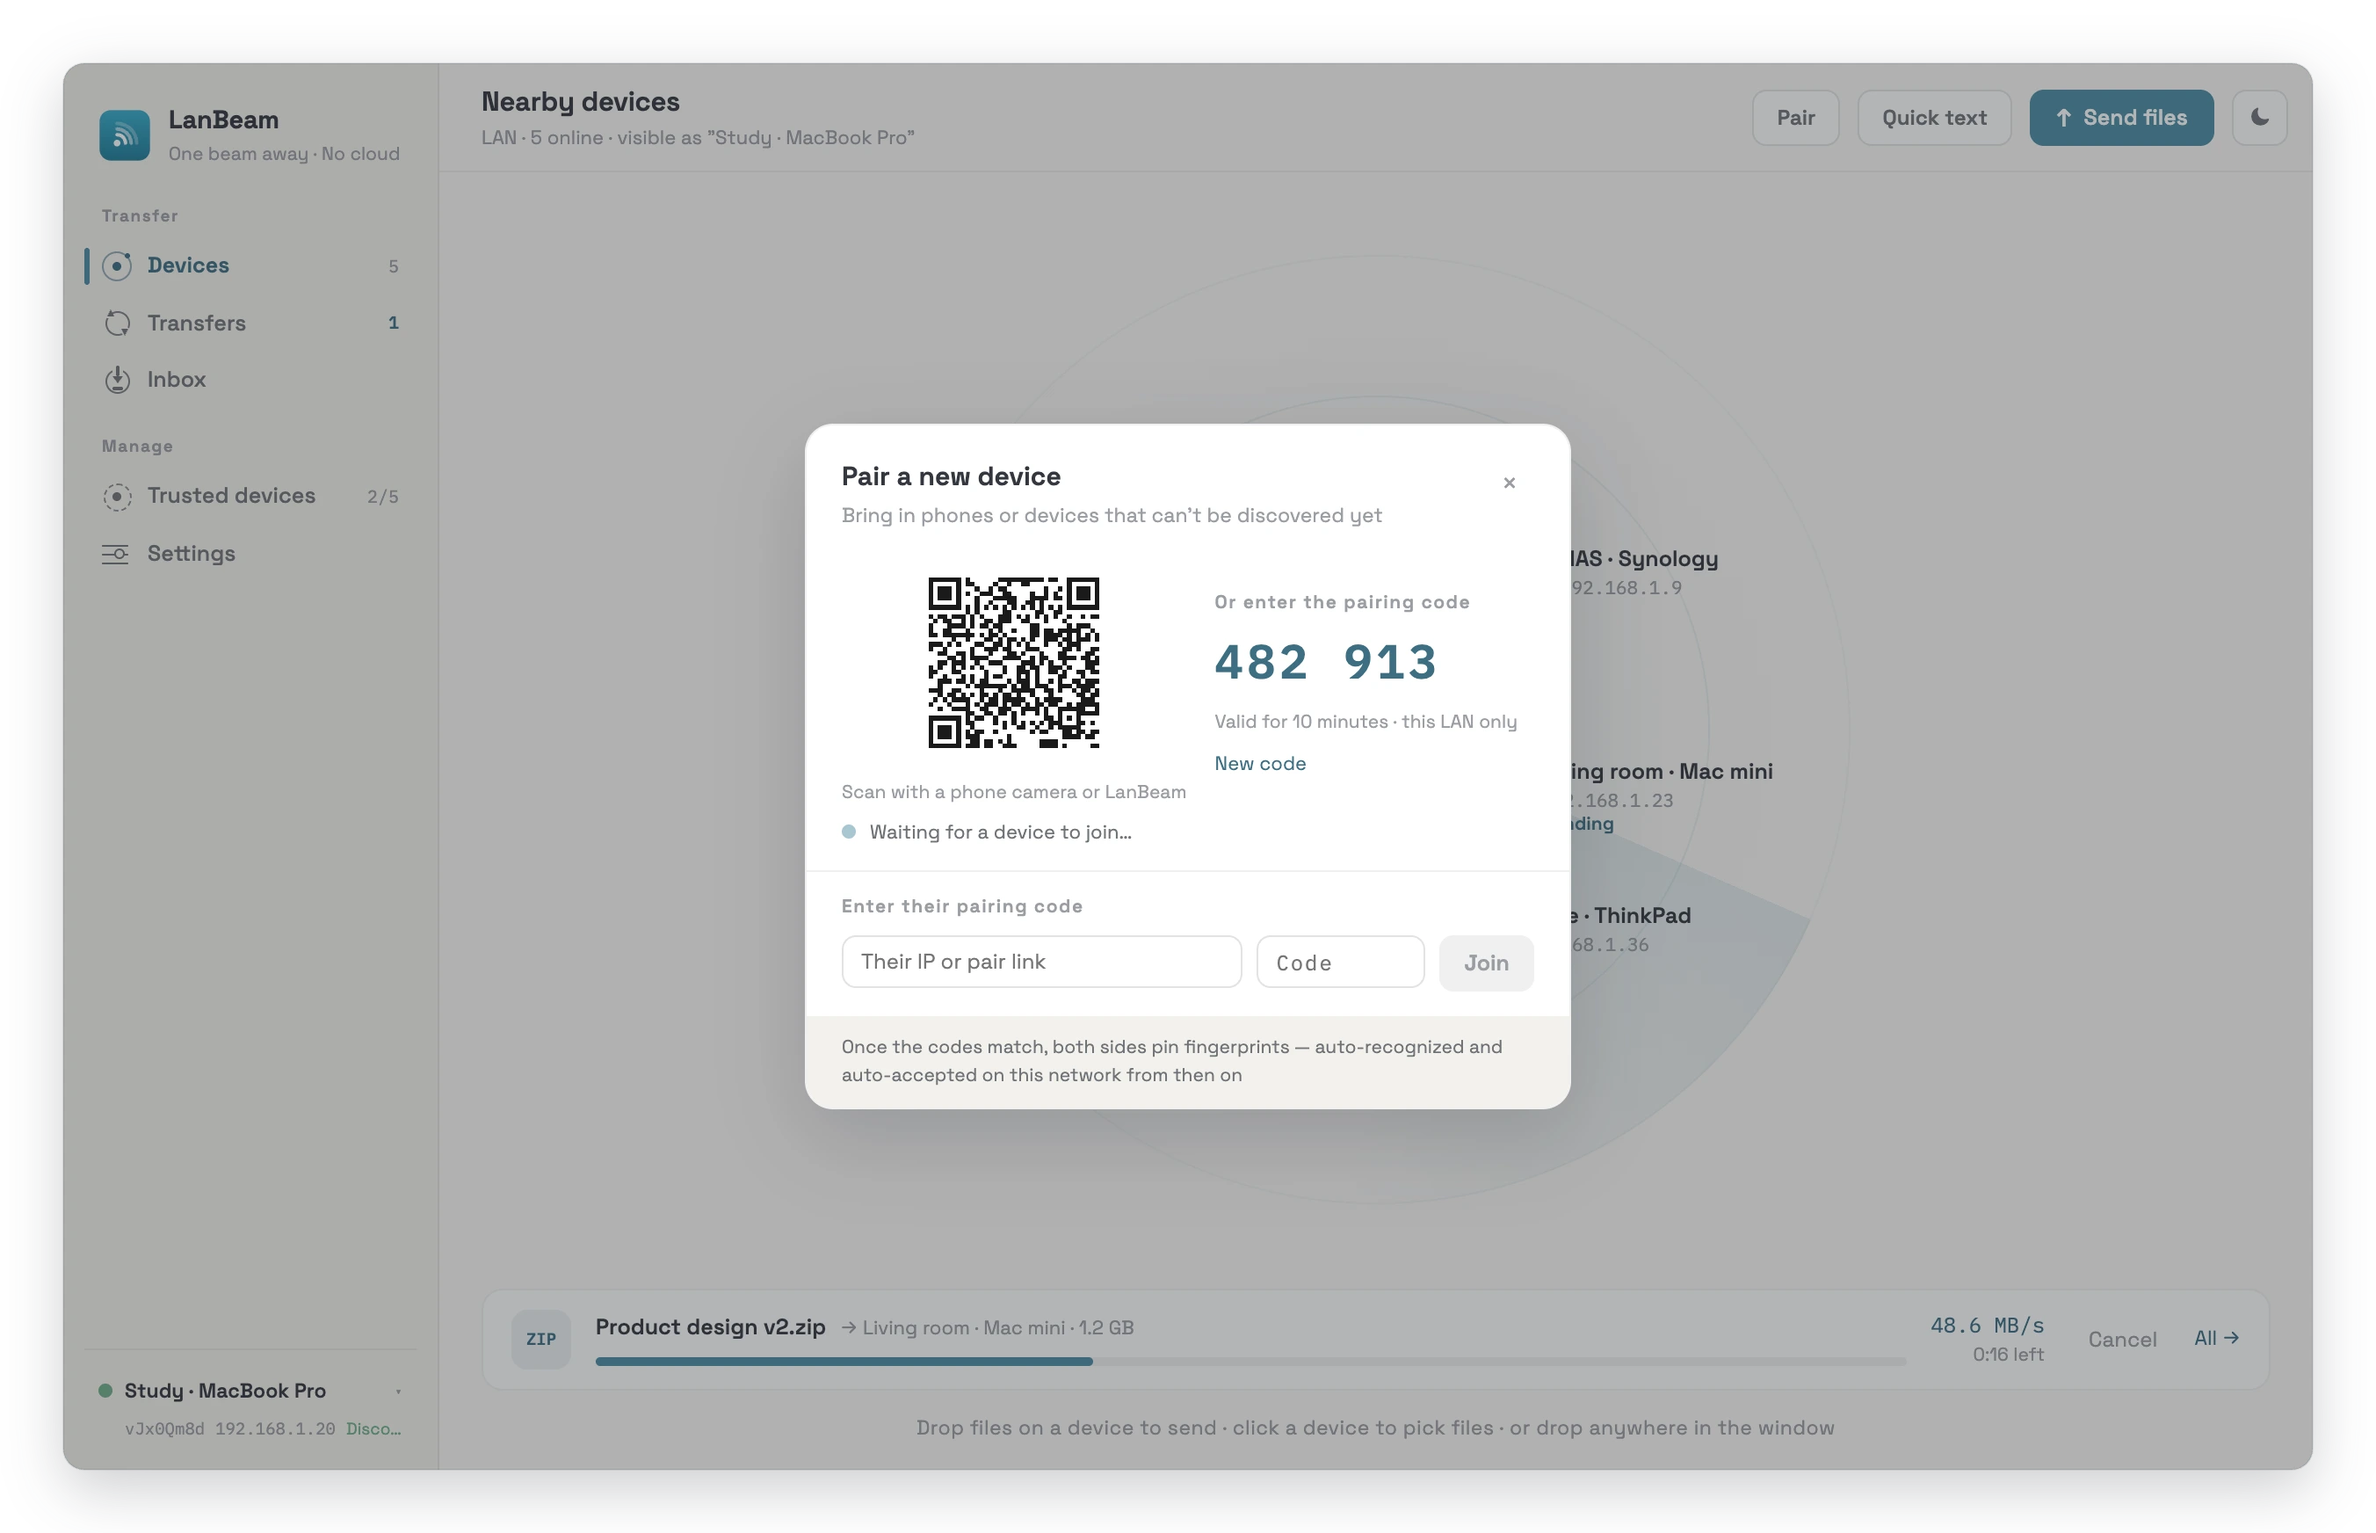
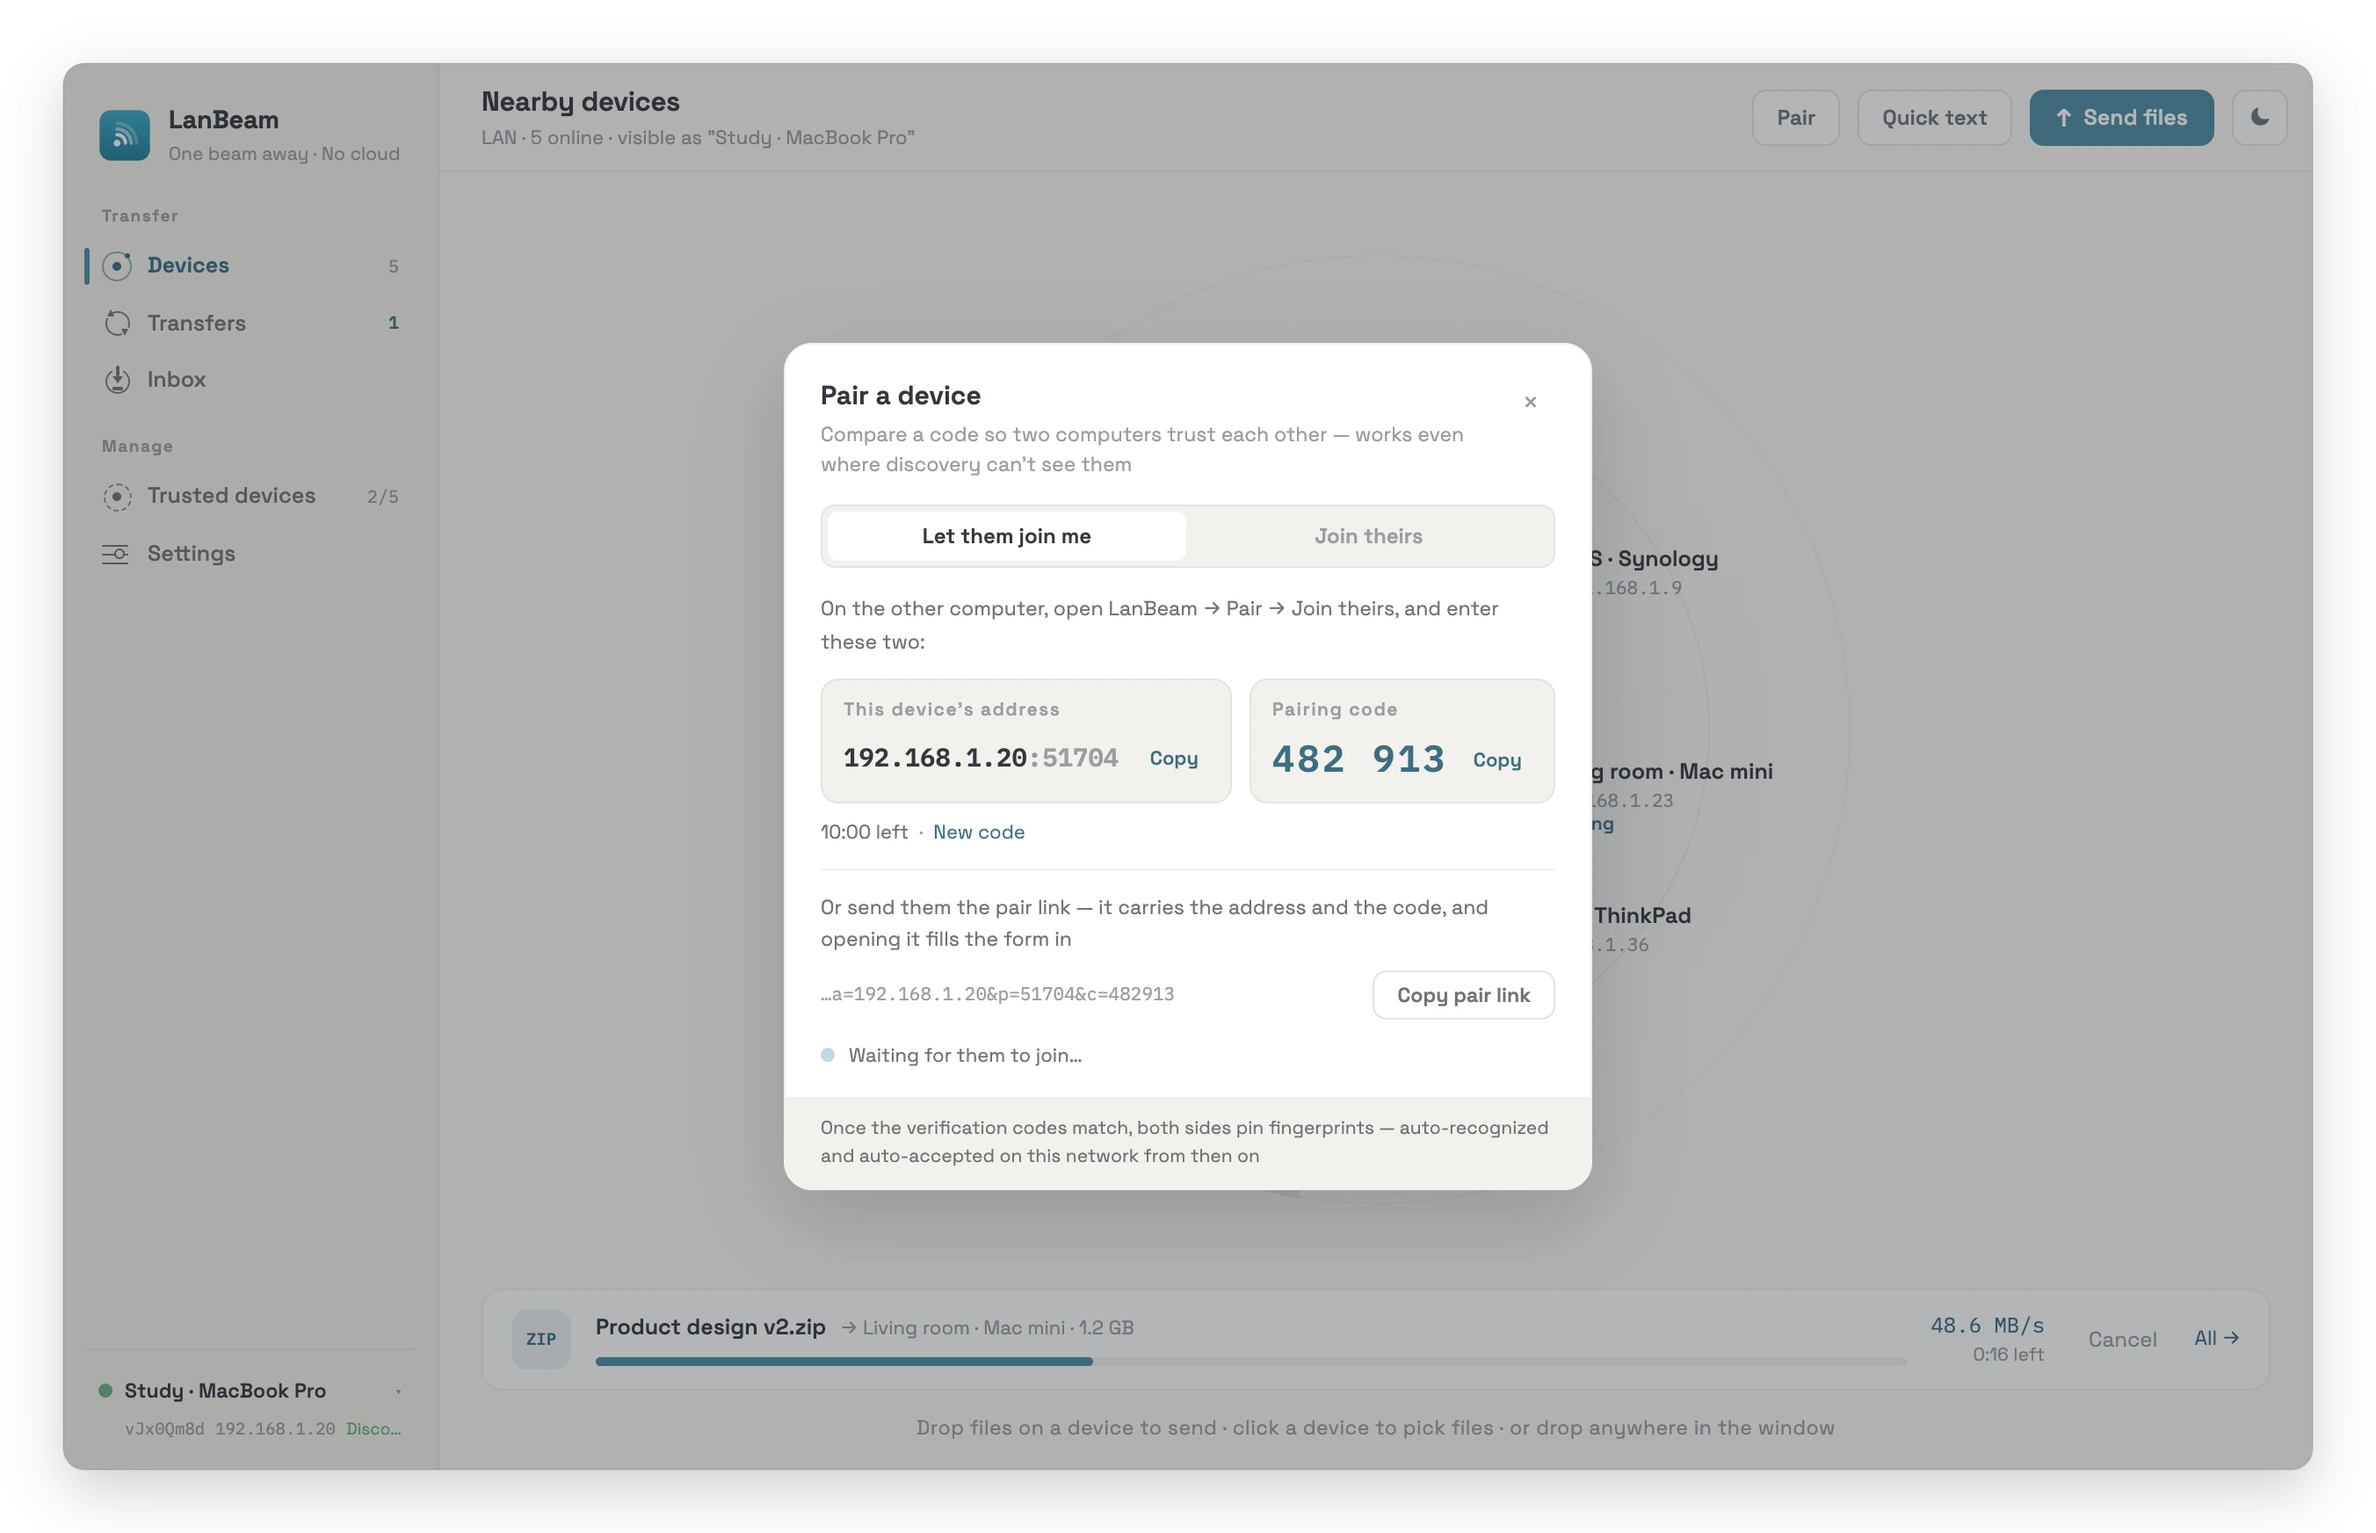
docs: pairing is "address + code"; refresh the pair screenshots
README (en/zh): the quick-start step, the screenshot caption, the pairing
bullet (link pinning, two-way reachability) and the deep-link table (pair and
connect now open the join view) describe the new form. Screenshots regenerated
with `pnpm screenshots --only pair`.

Changed region(s): [[0.3107, 0.2167, 0.6834, 0.805]]

diff --git a/README.zh-CN.md b/README.zh-CN.md
@@ -72,7 +72,7 @@ gh attestation verify LanBeam_0.1.0_x64-setup.exe --repo Johnserf-Seed/lanbeam
 2. **发送。** 把文件拖到雷达上的某台设备(或拖进窗口任意位置),也可以点一下设备再选文件。「快传文本」则用来发一段文字或链接,还可以直接放进对方的剪贴板。
 3. **接收。** 接收方会看到谁要发什么,旁边还有一串校验码;和发送方屏幕上的一致,就点接收。勾选「以后自动接收此设备」后,这台设备再发来的文件会直接收下 —— 它已进入你的信任圈。
 4. **对方没装 LanBeam?** 用「浏览器接收」:LanBeam 给出一个链接和二维码,手机扫码打开,文件直接从你的电脑下载过去。
-5. **设备没出现?**(跨子网,或发现被路由器拦了)—— 用「配对」(6 位配对码或二维码),或输入对方地址「IP 直连」。
+5. **设备没出现?**(跨子网,或发现被路由器拦了)—— 用「配对」:一台显示本机地址和 6 位配对码,另一台把两项填进去(或直接打开带着它们的配对链接)。也可以只按地址添加设备,不配对。
 
 收到的文件默认存到 `下载/LanBeam`,还可以按设备或按日期自动归档(都在设置里)。
 
@@ -84,7 +84,7 @@ gh attestation verify LanBeam_0.1.0_x64-setup.exe --repo Johnserf-Seed/lanbeam
     <td width="50%"><img src="docs/screenshots/zh/share.webp" alt="用浏览器接收:一次性的局域网链接和二维码"><br><b>浏览器接收</b> —— 一次性局域网链接 + 二维码,给没装 App 的设备</td>
   </tr>
   <tr>
-    <td><img src="docs/screenshots/zh/pair.webp" alt="用二维码或 6 位配对码配对新设备"><br><b>配对</b> —— 二维码或 6 位配对码,接入发现不了的设备</td>
+    <td><img src="docs/screenshots/zh/pair.webp" alt="配对设备:本机地址 + 6 位配对码"><br><b>配对</b> —— 本机地址 + 6 位配对码,接入发现不了的设备</td>
     <td><img src="docs/screenshots/zh/transfers.webp" alt="传输:进行中的传输与实时速度,以及历史记录"><br><b>传输</b> —— 实时速度、暂停 / 继续、校验过的历史</td>
   </tr>
   <tr>
@@ -112,8 +112,8 @@ gh attestation verify LanBeam_0.1.0_x64-setup.exe --repo Johnserf-Seed/lanbeam
 - **浏览器接收** —— 把指定的一组文件通过一次性 HTTP 分享出去:不可猜的 token 链接 + 有效期 + **每个文件**的下载次数上限(K 个文件的分享,总预算就是上限 × K)+ 一键停止 —— 仅限局域网,文件按索引寻址(无路径/穿越面)。**任何分享(包括单文件)**对方看到的都是一个品牌落地页,并**按对方浏览器的语言**渲染(读 `Accept-Language`);而每一次下载都会回传给你:带下载方 IP 的提示、传输历史里的一条记录、系统通知,以及分享面板上实时跳动的计数。**关掉分享面板并不会停止分享** —— 你交给别人的链接,不该因为你关掉了复制它的那个面板就失效 —— 所以只要有分享还活着,侧栏就一直显示它,而那个指示器就是你回去停掉它的入口。
 
 ### 配对与触达
-- **配对** —— 6 位配对码(10 分钟有效)、可扫二维码,或 [`lanbeam://` 深链接](#深链接lanbeam)。**兑换配对码只能证明码是对的,证明不了拿着码的是谁**:随后两台屏幕会显示**同一个校验码(SAS)**,双方**各自**确认一致,才写入信任。握手本身从不授予任何信任。
-- **IP 直连** —— 用于自动发现看不到的对端(不同子网)。
+- **配对** —— 一台显示本机地址和 6 位配对码(10 分钟有效),两者也打包成一条配对链接([`lanbeam://` 深链接](#深链接lanbeam));另一台把两项填进去。从链接加入时,握手会锁定链接里写的那台设备。**兑换配对码只能证明码是对的,证明不了拿着码的是谁**:随后两台屏幕会显示**同一个校验码(SAS)**,双方**各自**确认一致,才写入信任。握手本身从不授予任何信任。配对还会让双方互相记下地址,发现看不到对方时也能双向直达。
+- **IP 直连** —— 用于自动发现看不到的对端(不同子网):在配对面板里选「只添加设备,不配对」,或在空的设备页直接输入。
 - **快传文本** —— 通过加密信道发一段文字/链接,可选择直接落到对方剪贴板。文本没有接收确认框,所以它遵守和文件一样的规矩:**未受信的发送方会被丢弃 —— 而且 ack 会如实告知,发送方拿到的是一个真实的错误,不是一句假的「已送达」**。另有按来源的洪水限流。
 
 ### 隐私与系统集成
@@ -196,9 +196,9 @@ LanBeam 0.1.0 和 0.1.1 把设备密钥存在登录钥匙串里,而 macOS 钥匙
 
 | 链接 | 它做什么 | 它**不**做什么 |
 | --- | --- | --- |
-| `lanbeam://pair?d=…&n=…&a=…&p=…&c=…` | 打开配对表单并预填 | 不配对。你仍需核对 SAS。 |
+| `lanbeam://pair?d=…&n=…&a=…&p=…&c=…` | 打开配对面板的「加入对方」页并预填 | 不配对。你仍需点「加入」并核对 SAS。 |
 | `lanbeam://text?t=<urlencoded>` | 打开快传文本并预填内容 | 不发送。你仍需选择设备。 |
-| `lanbeam://connect?a=<ip[:端口]>` | 跳到设备页并预填地址 | 不连接。你仍需点「IP 直连」。 |
+| `lanbeam://connect?a=<ip[:端口]>` | 打开「加入对方」页并预填地址 | 不连接。你仍需点「加入」(要配对码)或「只添加设备」。 |
 | `lanbeam://devices` · `transfers` · `inbox` · `settings` | 跳转到对应页面 | 不携带任何参数 |
 | `lanbeam://open` | 仅把窗口调到前台 | 别的都不做 |
 

diff --git a/README.md b/README.md
@@ -92,8 +92,9 @@ gh attestation verify LanBeam_0.1.0_x64-setup.exe --repo Johnserf-Seed/lanbeam
    simply arrive from then on — it's now in your trust circle.
 4. **Other side has no LanBeam?** Use *Browser receive*: LanBeam shows a link and a QR code,
    the phone opens it, and the file downloads straight from your computer.
-5. **A device doesn't appear?** (another subnet, or discovery blocked) — use *Pair* with a
-   6‑digit code or QR, or *Direct IP* with its address.
+5. **A device doesn't appear?** (another subnet, or discovery blocked) — use *Pair*: one
+   computer shows its address and a 6‑digit code, the other enters both (or opens the pair
+   link that carries them). Or just add it by address, without pairing.
 
 Received files land in `Downloads/LanBeam`, optionally sorted per device or per date (both
 in Settings).
@@ -106,7 +107,7 @@ in Settings).
     <td width="50%"><img src="docs/screenshots/en/share.webp" alt="Receive in a browser: a one-time LAN link with a QR code"><br><b>Browser receive</b> — a one‑time LAN link + QR for devices without the app</td>
   </tr>
   <tr>
-    <td><img src="docs/screenshots/en/pair.webp" alt="Pair a new device with a QR code or a 6-digit code"><br><b>Pair</b> — QR or 6‑digit code for devices discovery can't see</td>
+    <td><img src="docs/screenshots/en/pair.webp" alt="Pair a device: this computer's address and a 6-digit code"><br><b>Pair</b> — this computer's address + a 6‑digit code, for devices discovery can't see</td>
     <td><img src="docs/screenshots/en/transfers.webp" alt="Transfers: an active transfer with live speed, and the history"><br><b>Transfers</b> — live speed, pause / resume, verified history</td>
   </tr>
   <tr>
@@ -150,11 +151,15 @@ in Settings).
   and that indicator is how you get back to it and stop it.
 
 ### Pairing & reach
-- **Pairing** — a 6‑digit code (10‑minute TTL), a scannable QR, or a [`lanbeam://` deep
-  link](#deep-links-lanbeam). Redeeming a code proves the code, not the device holding it:
-  **both screens then show the same SAS, and trust is recorded only once a human confirms
-  it — independently, on each side.** The handshake never grants trust on its own.
-- **IP direct connect** for peers that automatic discovery can't see (different subnet).
+- **Pairing** — one side shows its address and a 6‑digit code (10‑minute TTL), also packed
+  into a pair link ([`lanbeam://` deep link](#deep-links-lanbeam)); the other side enters
+  both. Joining from a link pins the handshake to the device the link names. Redeeming a
+  code proves the code, not the device holding it: **both screens then show the same SAS,
+  and trust is recorded only once a human confirms it — independently, on each side.** The
+  handshake never grants trust on its own. Pairing records each side's address on the
+  other, so a paired device stays reachable in both directions where discovery can't see it.
+- **IP direct connect** for peers that automatic discovery can't see (different subnet) —
+  *Just add the device* in the pairing form, or the field on an empty Devices page.
 - **Quick text** — send a snippet/link over the encrypted channel, optionally dropped on
   the receiver's clipboard. Text has no accept prompt, so it obeys the rule files do: a
   sender you don't trust is dropped — **and the ack says so, so the sender gets a real
@@ -299,9 +304,9 @@ and why adding one is the change that must never be made.
 
 | Link | What it does | What it does **not** do |
 | --- | --- | --- |
-| `lanbeam://pair?d=…&n=…&a=…&p=…&c=…` | Opens the pairing form, pre‑filled | Pair. You still confirm the SAS. |
+| `lanbeam://pair?d=…&n=…&a=…&p=…&c=…` | Opens the pairing form's *Join theirs* view, pre‑filled | Pair. You still press Join and confirm the SAS. |
 | `lanbeam://text?t=<urlencoded>` | Opens quick‑text with the body pre‑filled | Send. You still pick the device. |
-| `lanbeam://connect?a=<ip[:port]>` | Lands on Devices with the address pre‑filled | Dial. You still press **Direct IP**. |
+| `lanbeam://connect?a=<ip[:port]>` | Opens *Join theirs* with the address pre‑filled | Dial. You still press Join (with the code) or *Just add the device*. |
 | `lanbeam://devices` · `transfers` · `inbox` · `settings` | Navigates to that page | Carry any payload |
 | `lanbeam://open` | Just brings the window to the front | Anything else |
 
